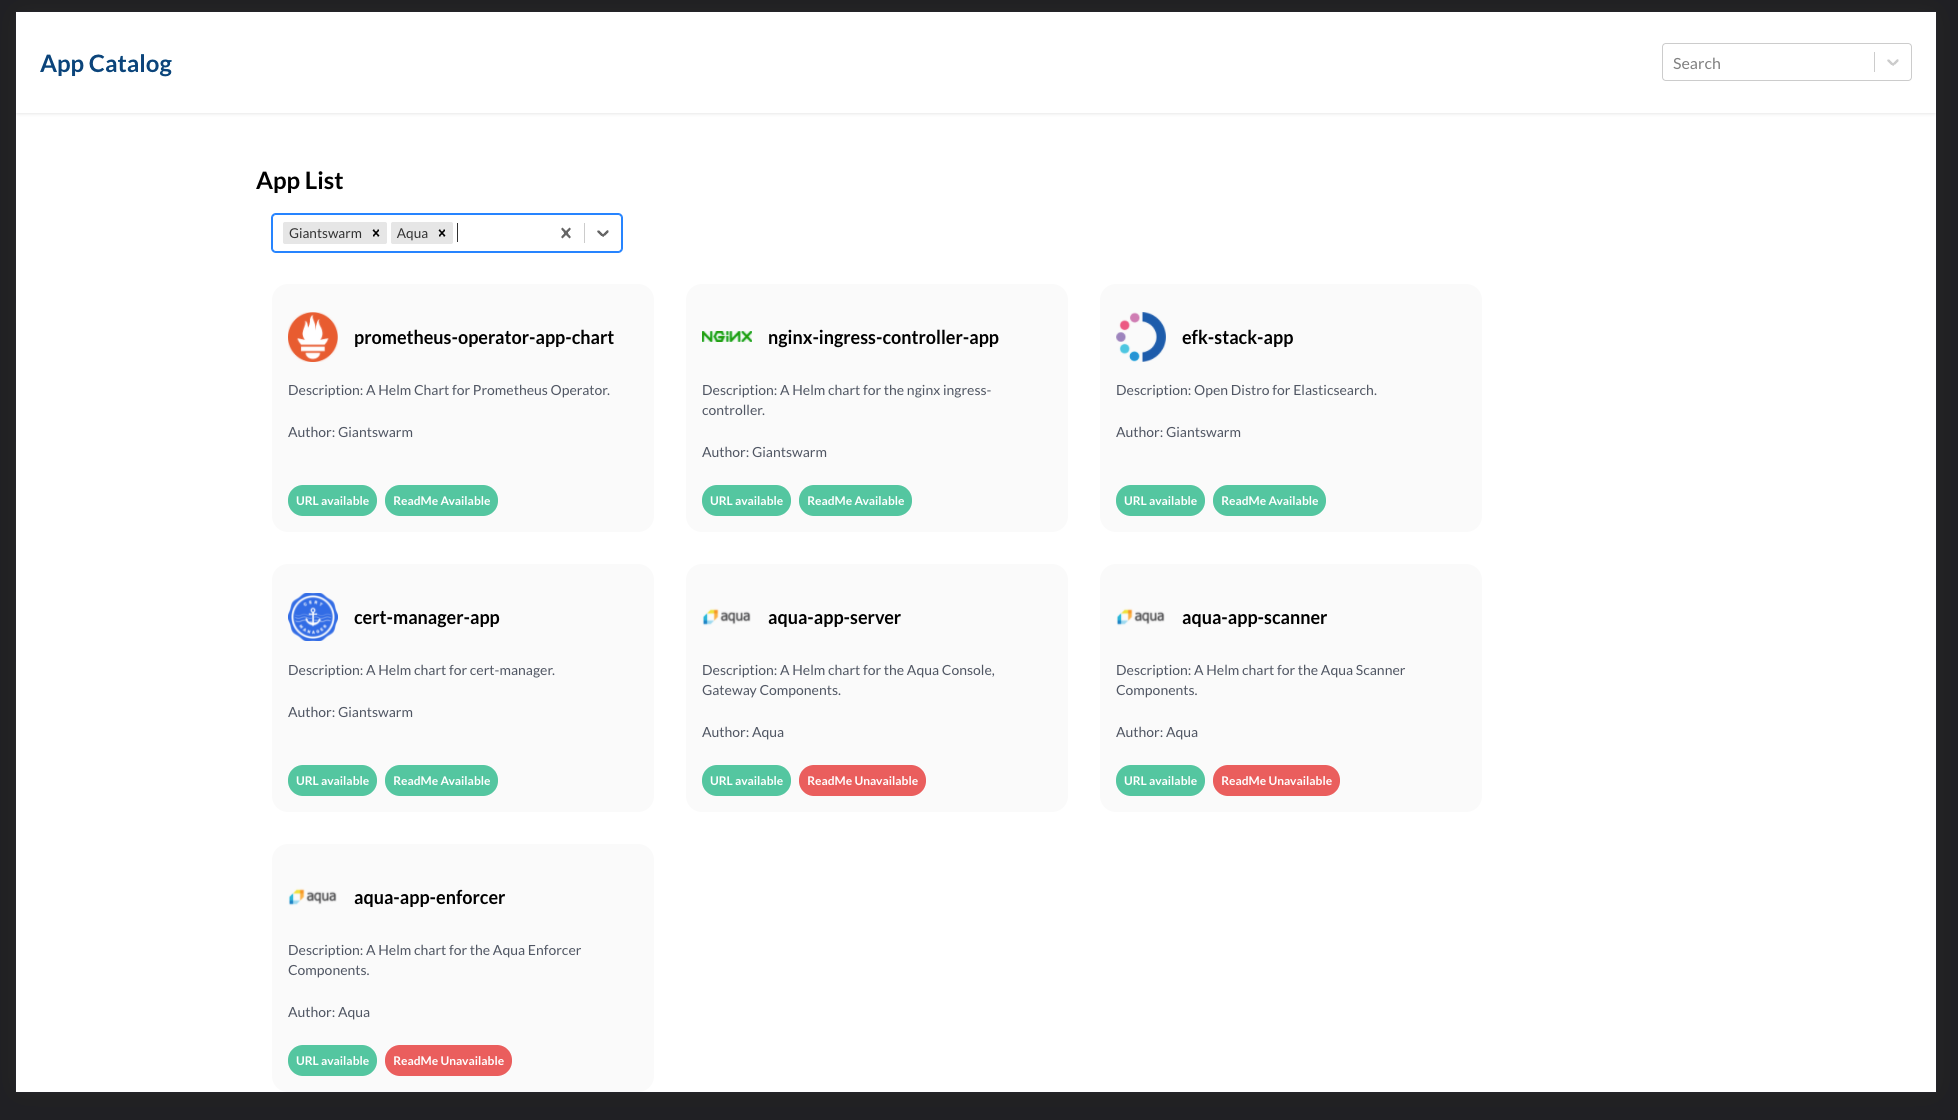
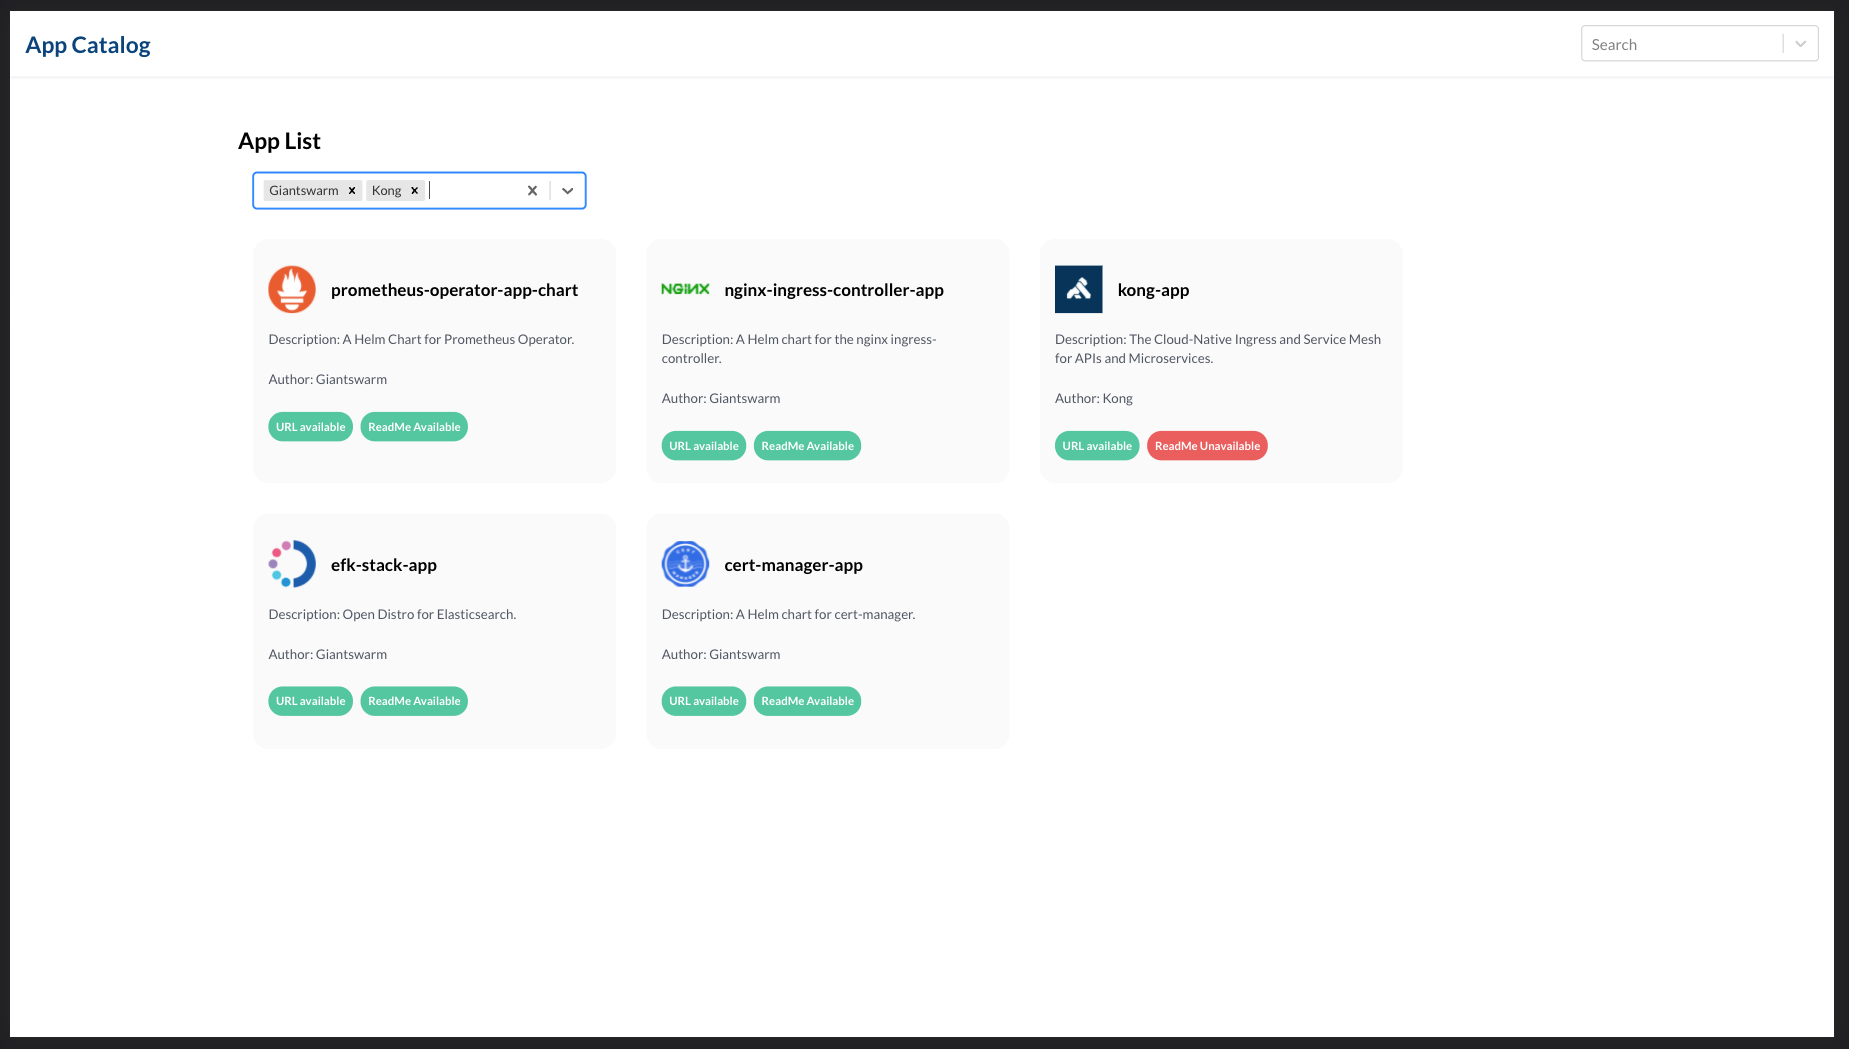
chore: add screenshots of app for desktop and mobile layouts

diff --git a/packages/frontend/lib-components/src/scss/tile.scss b/packages/frontend/lib-components/src/scss/tile.scss
@@ -48,6 +48,7 @@
     flex-direction: column;
     font-size: pxToRem(14);
     line-height: pxToRem(20);
+    margin-bottom: pxToRem(16);
 
     > p {
       margin-bottom: pxToRem(8);
@@ -55,11 +56,8 @@
   }
 
   &__chips {
-    bottom: pxToRem(16);
     display: flex;
     flex-flow: row wrap;
-    margin-bottom: 0;
-    position: absolute;
     width: 100%;
   }
 }
